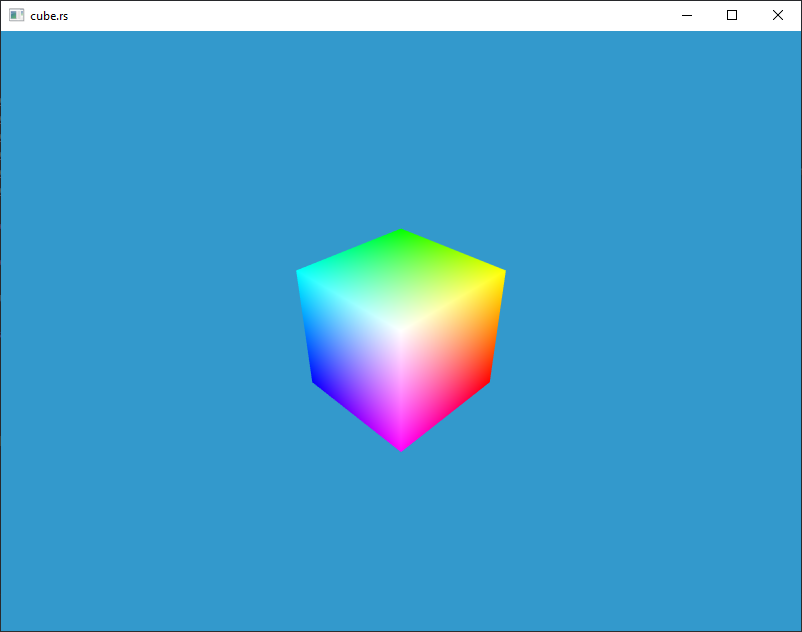
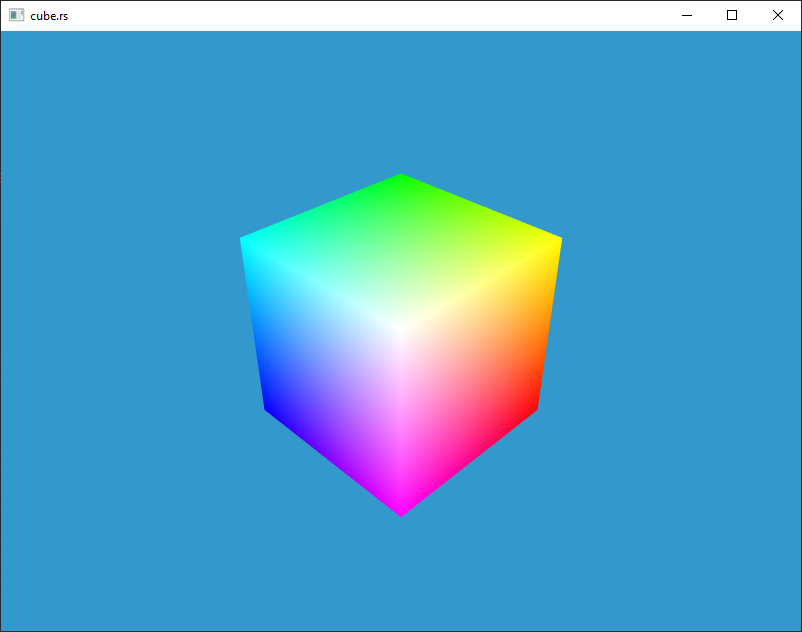
Set default fovy to 45 degrees in examples framework

Changed region(s): [[0.2805, 0.2706, 0.717, 0.8117]]

diff --git a/examples/util/mod.rs b/examples/util/mod.rs
@@ -353,7 +353,7 @@ pub struct Camera {
 
 impl Camera {
     pub fn new(window_width: u32, window_height: u32) -> Camera {
-        let fovy = Deg(65.0);
+        let fovy = Deg(45.0);
         let near = 0.01;
         let far = 10000.0;
 
